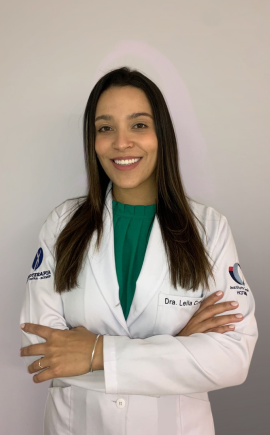
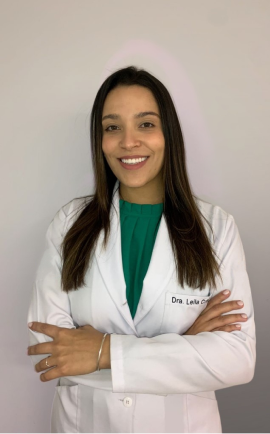
feat: order profiles and cvs

Changed region(s): [[0.0, 0.1498, 1.0, 1.0], [0.4148, 0.8986, 0.4741, 0.9286], [0.3259, 0.8986, 0.3556, 0.9286]]

diff --git a/src/pages/quemSomos/index.jsx b/src/pages/quemSomos/index.jsx
@@ -260,7 +260,39 @@ const QuemSomos = () => {
         </Curriculum>
       </Container>
 
-      <Container sectionClass="bgCurriculum" id="DraCibele">
+      <Container sectionClass="bgCurriculum" id="DraLeila">
+        <Curriculum
+          a="Agendar avaliação com a Dra. Leila"
+          aUrl="https://wa.me/+5511913112992?text=Olá! Gostaria de agendar uma avaliação com a Dra. Leila. Estou buscando a clínica porque…"
+          altImg="Foto da Dra.Leila"
+          img={leila}
+        >
+          <div className="descriptionCV">
+            <h2>Dra. Leila Cristina </h2>
+            <span className="subtitleDra">
+              Fisioterapeuta especializada em Saúde da Mulher
+            </span>
+            <span className="crefito">CREFITO-3/322756-F</span>
+            <ul>
+              <li>
+                Graduada em Fisioterapia pelo Centro Universitário Saúde ABC -
+                FMABC;
+              </li>
+              <li>Pós-Graduada em Fisioterapia Pélvica (HCFMUSP);</li>
+              <li>
+                Atuou como Fisioterapeuta Pélvica na Maternidade Hospital
+                Brasil;
+              </li>
+              <li>
+                Foi intercambista na Escola Superior de Tecnologia de Saúde de
+                Coimbra - Portugal.
+              </li>
+            </ul>
+          </div>
+        </Curriculum>
+      </Container>
+
+      <Container sectionClass="bgCurriculumNoPic" id="DraCibele">
         <Curriculum
           a="Agendar avaliação com a Dra. Cibele"
           aUrl="https://wa.me/+5511913112992?text=Olá! Gostaria de agendar uma avaliação com a Dra. Cibele. Estou buscando a clínica porque…"
@@ -293,38 +325,6 @@ const QuemSomos = () => {
                 auriculoterapia, moxabustão, ventosaterapia, Gua sha,
                 eletroacupuntura, laseracupuntura, aromaterapia e
                 fitoacupuntura.
-              </li>
-            </ul>
-          </div>
-        </Curriculum>
-      </Container>
-
-      <Container sectionClass="bgCurriculumNoPic" id="DraLeila">
-        <Curriculum
-          a="Agendar avaliação com a Dra. Leila"
-          aUrl="https://wa.me/+5511913112992?text=Olá! Gostaria de agendar uma avaliação com a Dra. Leila. Estou buscando a clínica porque…"
-          altImg="Foto da Dra.Leila"
-          img={leila}
-        >
-          <div className="descriptionCV">
-            <h2>Dra. Leila Cristina </h2>
-            <span className="subtitleDra">
-              Fisioterapeuta especializada em Saúde da Mulher
-            </span>
-            <span className="crefito">CREFITO-3/322756-F</span>
-            <ul>
-              <li>
-                Graduada em Fisioterapia pelo Centro Universitário Saúde ABC -
-                FMABC;
-              </li>
-              <li>Pós-Graduada em Fisioterapia Pélvica (HCFMUSP);</li>
-              <li>
-                Atuou como Fisioterapeuta Pélvica na Maternidade Hospital
-                Brasil;
-              </li>
-              <li>
-                Foi intercambista na Escola Superior de Tecnologia de Saúde de
-                Coimbra - Portugal.
               </li>
             </ul>
           </div>

diff --git a/src/pages/tratamento/index.jsx b/src/pages/tratamento/index.jsx
@@ -726,21 +726,21 @@ const Tratamento = () => {
 
           <BoxAnimation animation="bottom">
             <SpecCard
-              h3="Cibele Ferrari"
-              img={cibele}
-              p="Fisioterapeuta Acupunturista especializada em Saúde da Mulher e Gestantes"
-              span="CREFITO-3/111858-F"
-              id="DraCibele"
-            />
-          </BoxAnimation>
-
-          <BoxAnimation animation="top">
-            <SpecCard
               h3="Leila Cristina"
               img={leila}
               p="Fisioterapeuta especializada em Saúde da Mulher"
               span="CREFITO-3/322756-F"
               id="DraLeila"
+            />
+          </BoxAnimation>
+
+          <BoxAnimation animation="top">
+            <SpecCard
+              h3="Cibele Ferrari"
+              img={cibele}
+              p="Fisioterapeuta Acupunturista especializada em Saúde da Mulher e Gestantes"
+              span="CREFITO-3/111858-F"
+              id="DraCibele"
             />
           </BoxAnimation>
         </div>

diff --git a/src/pages/home/index.jsx b/src/pages/home/index.jsx
@@ -200,21 +200,21 @@ const Home = () => {
 
           <BoxAnimation animation="bottom">
             <SpecCard
-              h3="Cibele Ferrari"
-              img={cibele}
-              p="Fisioterapeuta Acupunturista especializada em Saúde da Mulher e Gestantes"
-              span="CREFITO-3/111858-F"
-              id="DraCibele"
-            />
-          </BoxAnimation>
-
-          <BoxAnimation animation="top">
-            <SpecCard
               h3="Leila Cristina"
               img={leila}
               p="Fisioterapeuta especializada em Saúde da Mulher"
               span="CREFITO-3/322756-F"
               id="DraLeila"
+            />
+          </BoxAnimation>
+
+          <BoxAnimation animation="top">
+            <SpecCard
+              h3="Cibele Ferrari"
+              img={cibele}
+              p="Fisioterapeuta Acupunturista especializada em Saúde da Mulher e Gestantes"
+              span="CREFITO-3/111858-F"
+              id="DraCibele"
             />
           </BoxAnimation>
         </div>
